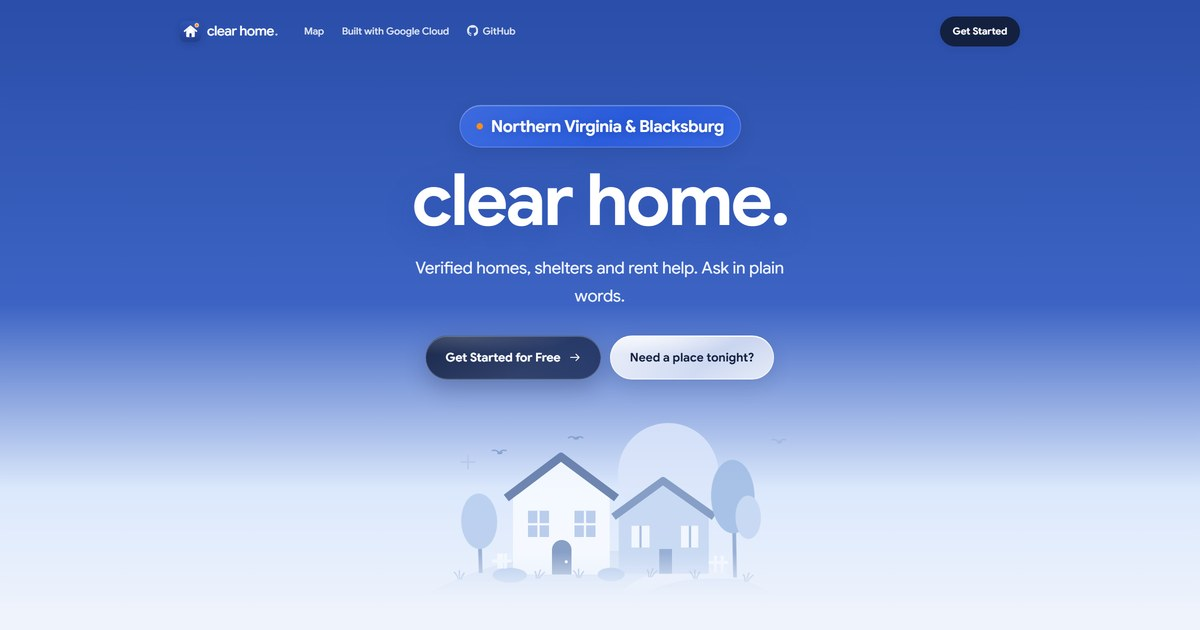
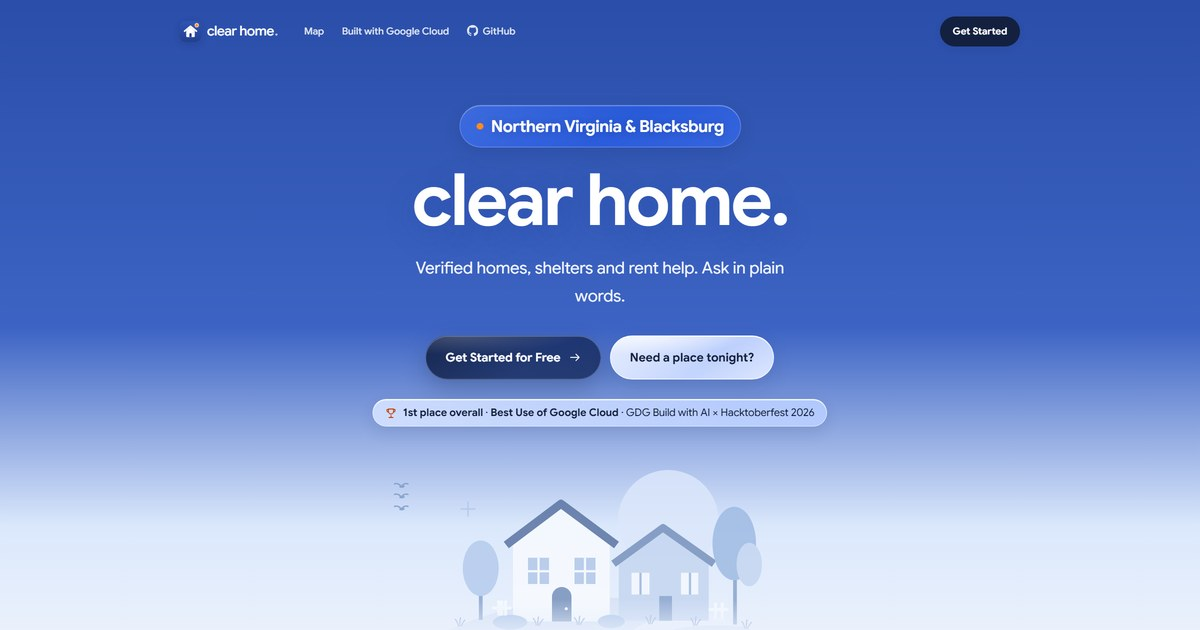
The wins: 1st place overall and Best Use of Google Cloud, in the README and as a small glass line under the front page buttons; the link preview picture shows it too

Changed region(s): [[0.0, 0.6032, 1.0, 1.0], [0.3392, 0.4222, 0.6475, 0.4825]]

diff --git a/frontend/about.html b/frontend/about.html
@@ -15,12 +15,12 @@
   <meta property="og:title" content="Clear Home">
   <meta property="og:description" content="Verified homes, shelters and rent help in Northern Virginia and Blacksburg. Ask in plain words.">
   <meta property="og:url" content="https://clearhome.live/">
-  <meta property="og:image" content="https://clearhome.live/images/og-image.jpg">
+  <meta property="og:image" content="https://clearhome.live/images/og-image.jpg?v=2">
   <meta property="og:image:width" content="1200">
   <meta property="og:image:height" content="630">
-  <meta property="og:image:alt" content="The Clear Home front page: clear home., verified homes, shelters and rent help.">
+  <meta property="og:image:alt" content="The Clear Home front page: clear home., verified homes, shelters and rent help. 1st place overall and Best Use of Google Cloud.">
   <meta name="twitter:card" content="summary_large_image">
-  <meta name="twitter:image" content="https://clearhome.live/images/og-image.jpg">
+  <meta name="twitter:image" content="https://clearhome.live/images/og-image.jpg?v=2">
   <link rel="preconnect" href="https://fonts.googleapis.com">
   <link rel="preconnect" href="https://fonts.gstatic.com" crossorigin>
   <link href="https://fonts.googleapis.com/css2?family=Inter:wght@400;600;700;800&family=IBM+Plex+Sans:wght@400;600&display=swap" rel="stylesheet">
@@ -65,6 +65,7 @@
         <h1 id="hero-title">clear <span>home.</span></h1>
         <p class="cl-sub cl-in" style="--d:.35s">Verified homes, shelters and rent help. Ask in plain words.</p>
         <div class="cl-actions cl-in" style="--d:.5s"><a class="cl-btn" href="/app" data-start>Get Started for Free <svg width="17" height="17" fill="none" stroke="currentColor" stroke-width="1.8" stroke-linecap="round" stroke-linejoin="round" aria-hidden="true"><use href="#arrow"/></svg></a><a class="cl-btn ghost" href="/app#emergency" data-tonight-start>Need a place tonight?</a></div>
+        <p class="cl-award cl-in" style="--d:.65s"><svg width="16" height="16" viewBox="0 0 24 24" fill="none" stroke="currentColor" stroke-width="1.8" stroke-linecap="round" stroke-linejoin="round" aria-hidden="true"><path d="M8 21h8M12 17v4M7 4h10v5a5 5 0 0 1-10 0V4Z"/><path d="M17 5h3v2a3 3 0 0 1-3 3M7 5H4v2a3 3 0 0 0 3 3"/></svg><span><b>1st place overall</b> · <b>Best Use of Google Cloud</b> · GDG Build with AI × Hacktoberfest 2026</span></p>
       </div>
       <div class="cl-hero-art" aria-hidden="true"><svg viewBox="0 0 470 260" fill="none"><circle cx="326" cy="97" r="67" fill="#dce7fb"/><defs><clipPath id="cl-planet"><path d="M0 260A490 490 0 0 1 470 260Z"/></clipPath></defs><path d="M0 260A490 490 0 0 1 470 260Z" fill="#d6e2f5"/><path d="M272 260c45-34 100-39 198-27" stroke="#eef3fc" stroke-width="20" clip-path="url(#cl-planet)"/><path d="M119 127 183 80l65 47v105H119Z" fill="#f8fbff"/><path d="m110 130 73-55 74 55" stroke="#5b74a3" stroke-width="11" stroke-linejoin="round"/><path d="M139 147h28v35h-28zM201 147h28v35h-28z" fill="#b4c8e9"/><path d="M153 147v35m62-35v35m-76-17h28m34 0h28" stroke="#f8fbff" stroke-width="3"/><path d="M171 232v-33a13 13 0 0 1 26 0v33" fill="#7892bc"/><circle cx="190" cy="215" r="2" fill="#f8fbff"/><path d="m260 151 59-43 61 43v80H260Z" fill="#c5d6f1"/><path d="m253 155 66-48 68 48" stroke="#7892bc" stroke-width="10" stroke-linejoin="round"/><path d="M277 167h24v29h-24zM343 167h23v29h-23z" fill="#f4f8ff"/><path d="M289 167v29m66-29v29" stroke="#9eb7de" stroke-width="3"/><path d="M314 231v-33h17v33" fill="#8aa4ce"/><g class="tree t1"><path d="M76 230v-55" stroke="#8aa4ce" stroke-width="5"/><ellipse cx="76" cy="161" rx="24" ry="37" fill="#b6cbed"/></g><g class="tree t2"><path d="M415 236v-93" stroke="#8aa4ce" stroke-width="5"/><ellipse cx="414" cy="128" rx="29" ry="49" fill="#9fbbe3"/><ellipse cx="434" cy="156" rx="17" ry="29" fill="#c5d6f1"/></g><g class="bush"><ellipse cx="115" cy="233" rx="23" ry="10" fill="#a9c2e8"/></g><g class="bush k2"><ellipse cx="250" cy="232" rx="18" ry="9" fill="#a9c2e8"/></g><g class="grass" transform="translate(46 238)"><g class="blades"><path d="M0 0q-1-6-4-9M2 0q0-7 1-11M4 0q2-5 5-8" stroke="#92add5" stroke-width="1.6" stroke-linecap="round"/></g></g><g class="grass" transform="translate(150 237)"><g class="blades"><path d="M0 0q-1-6-4-9M2 0q0-7 1-11M4 0q2-5 5-8" stroke="#92add5" stroke-width="1.6" stroke-linecap="round"/></g></g><g class="grass" transform="translate(205 236)"><g class="blades"><path d="M0 0q-1-6-4-9M2 0q0-7 1-11M4 0q2-5 5-8" stroke="#92add5" stroke-width="1.6" stroke-linecap="round"/></g></g><g class="grass" transform="translate(300 235)"><g class="blades"><path d="M0 0q-1-6-4-9M2 0q0-7 1-11M4 0q2-5 5-8" stroke="#92add5" stroke-width="1.6" stroke-linecap="round"/></g></g><g class="grass" transform="translate(360 237)"><g class="blades"><path d="M0 0q-1-6-4-9M2 0q0-7 1-11M4 0q2-5 5-8" stroke="#92add5" stroke-width="1.6" stroke-linecap="round"/></g></g><g class="grass" transform="translate(428 241)"><g class="blades"><path d="M0 0q-1-6-4-9M2 0q0-7 1-11M4 0q2-5 5-8" stroke="#92add5" stroke-width="1.6" stroke-linecap="round"/></g></g><path d="M104 224v-20m-13 10h26m-17 10v-20m9 20v-20M389 229v-22m-9 9h26m-17 13v-22m9 22v-22" stroke="#f8fbff" stroke-width="4"/><g transform="translate(-30 66)"><g class="bird b1"><g class="bob"><g stroke="#7e9bc8" stroke-width="1.8" stroke-linecap="round" fill="none"><path class="wl" d="M0 0Q-4-5-9-3.5"/><path class="wr" d="M0 0Q4-5 9-3.5"/></g><ellipse cx=".6" cy=".4" rx="3.2" ry="1.5" fill="#7e9bc8"/><circle cx="3.4" cy="-.3" r="1.2" fill="#7e9bc8"/></g></g></g><g transform="translate(-30 52)"><g class="bird b2"><g class="bob"><g stroke="#7e9bc8" stroke-width="1.8" stroke-linecap="round" fill="none"><path class="wl" d="M0 0Q-4-5-9-3.5"/><path class="wr" d="M0 0Q4-5 9-3.5"/></g><ellipse cx=".6" cy=".4" rx="3.2" ry="1.5" fill="#7e9bc8"/><circle cx="3.4" cy="-.3" r="1.2" fill="#7e9bc8"/></g></g></g><g transform="translate(-30 82)"><g class="bird b3"><g class="bob"><g stroke="#7e9bc8" stroke-width="1.8" stroke-linecap="round" fill="none"><path class="wl" d="M0 0Q-4-5-9-3.5"/><path class="wr" d="M0 0Q4-5 9-3.5"/></g><ellipse cx=".6" cy=".4" rx="3.2" ry="1.5" fill="#7e9bc8"/><circle cx="3.4" cy="-.3" r="1.2" fill="#7e9bc8"/></g></g></g><path d="M49 82h20m-10-10v20" stroke="#b4c8e9" stroke-width="2"/></svg></div>
     </section>

diff --git a/frontend/google-cloud.html b/frontend/google-cloud.html
@@ -15,12 +15,12 @@
   <meta property="og:title" content="Clear Home: built with Google Cloud">
   <meta property="og:description" content="How Clear Home runs Gemma 4 on its own Cloud Run GPU, with the Gemini API, Google Maps and Secret Manager.">
   <meta property="og:url" content="https://clearhome.live/google-cloud">
-  <meta property="og:image" content="https://clearhome.live/images/og-image.jpg">
+  <meta property="og:image" content="https://clearhome.live/images/og-image.jpg?v=2">
   <meta property="og:image:width" content="1200">
   <meta property="og:image:height" content="630">
-  <meta property="og:image:alt" content="The Clear Home front page: clear home., verified homes, shelters and rent help.">
+  <meta property="og:image:alt" content="The Clear Home front page: clear home., verified homes, shelters and rent help. 1st place overall and Best Use of Google Cloud.">
   <meta name="twitter:card" content="summary_large_image">
-  <meta name="twitter:image" content="https://clearhome.live/images/og-image.jpg">
+  <meta name="twitter:image" content="https://clearhome.live/images/og-image.jpg?v=2">
   <link rel="preconnect" href="https://fonts.googleapis.com">
   <link rel="preconnect" href="https://fonts.gstatic.com" crossorigin>
   <link href="https://fonts.googleapis.com/css2?family=Inter:wght@400;600;700;800&display=swap" rel="stylesheet">

diff --git a/frontend/resources.html b/frontend/resources.html
@@ -15,12 +15,12 @@
   <meta property="og:title" content="Clear Home: housing resources">
   <meta property="og:description" content="How to qualify, where to apply and which voucher, rent help and legal aid programs are open now.">
   <meta property="og:url" content="https://clearhome.live/resources">
-  <meta property="og:image" content="https://clearhome.live/images/og-image.jpg">
+  <meta property="og:image" content="https://clearhome.live/images/og-image.jpg?v=2">
   <meta property="og:image:width" content="1200">
   <meta property="og:image:height" content="630">
-  <meta property="og:image:alt" content="The Clear Home front page: clear home., verified homes, shelters and rent help.">
+  <meta property="og:image:alt" content="The Clear Home front page: clear home., verified homes, shelters and rent help. 1st place overall and Best Use of Google Cloud.">
   <meta name="twitter:card" content="summary_large_image">
-  <meta name="twitter:image" content="https://clearhome.live/images/og-image.jpg">
+  <meta name="twitter:image" content="https://clearhome.live/images/og-image.jpg?v=2">
   <link rel="preconnect" href="https://fonts.googleapis.com">
   <link rel="preconnect" href="https://fonts.gstatic.com" crossorigin>
   <link href="https://fonts.googleapis.com/css2?family=Inter:wght@400;600;700;800&display=swap" rel="stylesheet">

diff --git a/frontend/index.html b/frontend/index.html
@@ -15,12 +15,12 @@
   <meta property="og:title" content="Clear Home: find your next step">
   <meta property="og:description" content="Search verified homes, shelters and rent help in Northern Virginia and Blacksburg, or ask Gemma in plain words.">
   <meta property="og:url" content="https://clearhome.live/app">
-  <meta property="og:image" content="https://clearhome.live/images/og-image.jpg">
+  <meta property="og:image" content="https://clearhome.live/images/og-image.jpg?v=2">
   <meta property="og:image:width" content="1200">
   <meta property="og:image:height" content="630">
-  <meta property="og:image:alt" content="The Clear Home front page: clear home., verified homes, shelters and rent help.">
+  <meta property="og:image:alt" content="The Clear Home front page: clear home., verified homes, shelters and rent help. 1st place overall and Best Use of Google Cloud.">
   <meta name="twitter:card" content="summary_large_image">
-  <meta name="twitter:image" content="https://clearhome.live/images/og-image.jpg">
+  <meta name="twitter:image" content="https://clearhome.live/images/og-image.jpg?v=2">
   <script src="/assets/app/arrival.js"></script>
   <link rel="stylesheet" href="/assets/app/base.css">
   <link rel="stylesheet" href="https://cdnjs.cloudflare.com/ajax/libs/leaflet/1.9.4/leaflet.min.css">

diff --git a/frontend/assets/home/home.css b/frontend/assets/home/home.css
@@ -3023,3 +3023,36 @@ body {
   transform: none
 }
 /* always visible at full strength, like the logo */
+/* The hackathon result under the hero buttons: a small light-glass line with a trophy, navy text so it stays readable
+   where the hero fades to white. */
+.cl-hero .cl-award {
+  display: inline-flex;
+  align-items: center;
+  gap: 8px;
+  margin: 26px auto 0;
+  padding: 8px 16px;
+  border-radius: 999px;
+  border: 1px solid #ffffffb3;
+  background: linear-gradient(140deg, #ffffffa6, #ffffff73);
+  box-shadow: inset 0 1px 0 #fff, 0 8px 22px #14203f1a;
+  backdrop-filter: blur(12px) saturate(1.5);
+  -webkit-backdrop-filter: blur(12px) saturate(1.5);
+  color: #14203f;
+  font-size: 14px;
+  line-height: 1.4;
+  max-width: 100%
+}
+.cl-hero .cl-award svg {
+  flex: none;
+  color: #c2410c
+}
+.cl-hero .cl-award b {
+  font-weight: 700
+}
+@media (max-width: 560px) {
+  .cl-hero .cl-award {
+    border-radius: 18px;
+    font-size: 13px;
+    text-align: left
+  }
+}

diff --git a/README.md b/README.md
@@ -2,6 +2,8 @@
 
 Group hackathon effort by Pierce, Umair, Phone, and Ryan for **GDG Build with AI x Hacktoberfest 2026** (Virginia Tech, Oct 24-25, 2026). Theme: **AI for Housing**.
 
+**Result: 1st place overall, and winner of the Best Use of Google Cloud track.**
+
 **Live site:** https://clearhome.live (also at https://clear-house-875094537886.us-east4.run.app)
 
 **Demo video (2 minutes):** https://drive.google.com/file/d/1U0Hd8VLAR6zEuiqLvSKKWC79sg3cA298/view?usp=sharing
